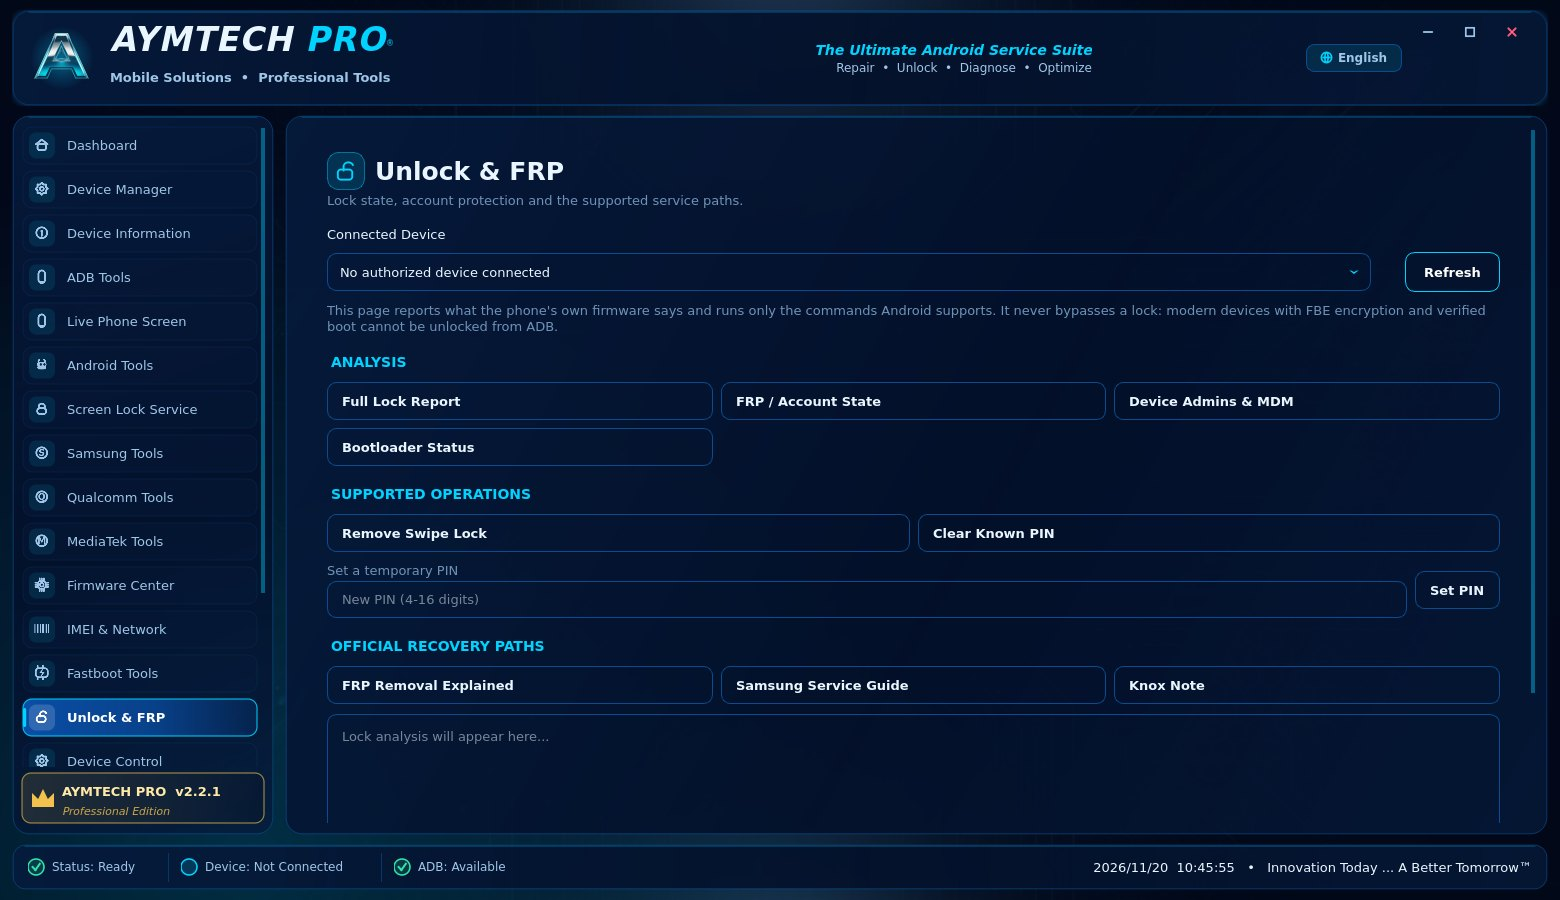
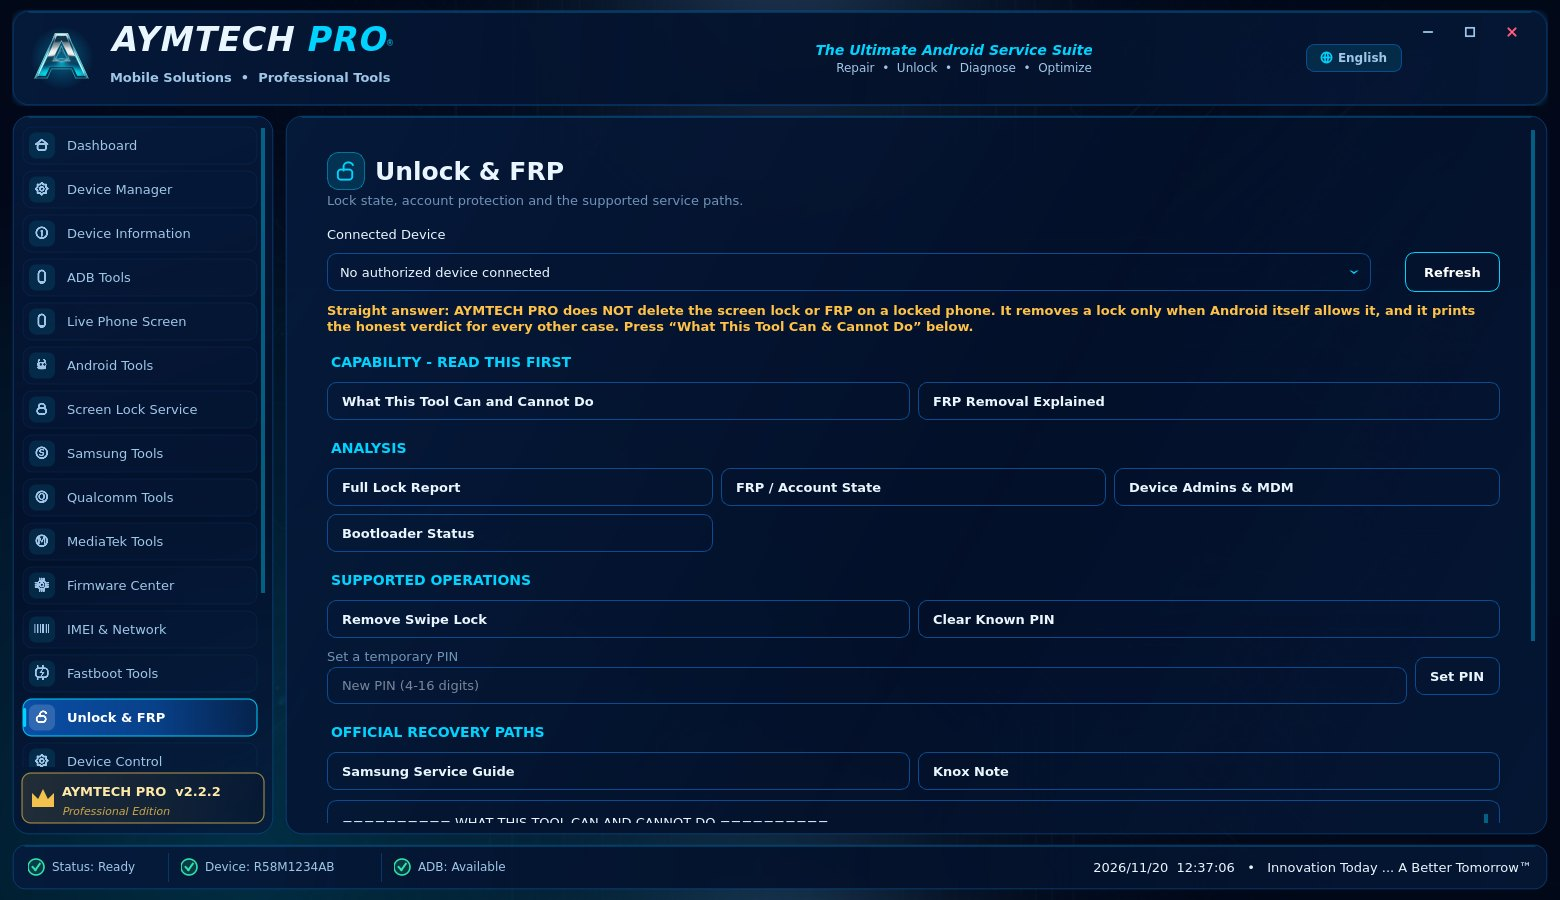
2.2.2: explicit lock / FRP capability matrix on the Unlock and FRP page
Answers the most common support question honestly inside the app.

- tools/unlock_tools.py: CAPABILITIES table (9 rows) and capability_report()
  stating which locks the tool really removes, which depend on the OEM and
  which are impossible over ADB, with the technical reason and the official
  path for each.
- Unlock & FRP page: warning banner up top plus a new first section
  'CAPABILITY - READ THIS FIRST' with the matrix and the FRP explanation.
- ui/theme.py: QLabel[warn] style so the banner is visible in every theme.
- EN/FR/AR strings for the new banner, section and button.
- README / README_AR: capability matrix documented; screenshot refreshed.

diff --git a/tools/unlock_tools.py b/tools/unlock_tools.py
@@ -22,6 +22,117 @@ from datetime import datetime
 from .adb_tools import ADBTools
 
 
+# Plain-language capability matrix, shown at the top of the Unlock & FRP page.
+# Every row answers the question a technician actually asks: "does this remove
+# the lock on the phone in front of me?"  Only three rows are a hard YES.
+CAPABILITIES = [
+    # (operation, verdict, explanation)
+    (
+        "Swipe / no lock screen",
+        "YES",
+        "locksettings set-disabled removes a non-secure swipe lock over ADB.",
+    ),
+    (
+        "PIN / pattern / password - phone already unlocked",
+        "YES",
+        "locksettings clear works while the ADB session is authorised, i.e. "
+        "when the credential is already known.",
+    ),
+    (
+        "Known PIN on a refurbished unit",
+        "YES",
+        "A temporary PIN can be set or removed before the phone is resold.",
+    ),
+    (
+        "PIN / pattern / password - phone parked on the lock screen",
+        "NO",
+        "Android 6+ uses file-based encryption. ADB is not authorised on the "
+        "lock screen and the credential is bound to the hardware keymaster.",
+    ),
+    (
+        "FRP / Google account lock",
+        "NO",
+        "FRP is a server-signed bootloader flag. Only the account "
+        "credentials, the manufacturer's proof-of-purchase service or a "
+        "chip-level procedure on the board can clear it.",
+    ),
+    (
+        "Samsung / Xiaomi / Huawei account lock",
+        "NO",
+        "Vendor account locks are verified online by the bootloader. Nothing "
+        "sent over ADB reaches that check.",
+    ),
+    (
+        "Bootloader unlock",
+        "SOMETIMES",
+        "Only on devices whose OEM unlocking toggle is enabled: fastboot "
+        "flashing unlock. Erases user data. Samsung has no fastboot path.",
+    ),
+    (
+        "Erase the frp partition with fastboot",
+        "SOMETIMES",
+        "Only when the bootloader already accepts write commands, i.e. it is "
+        "already unlocked - and in that state FRP is normally not pending. A "
+        "locked, FRP-pending phone rejects flash/erase/frp and -w.",
+    ),
+    (
+        "Knox / MDM enrolment",
+        "NO",
+        "Enrolment lives in the vendor security partition. Only the enrolling "
+        "organisation or an authorised service centre can release it.",
+    ),
+]
+
+VERDICT_TITLES = {
+    "YES": "REMOVED BY THIS TOOL",
+    "SOMETIMES": "ONLY WHEN THE OEM ALLOWS IT",
+    "NO": "NOT POSSIBLE OVER ADB",
+}
+
+
+def capability_report():
+    """Formatted capability matrix for the Unlock & FRP console."""
+
+    lines = [
+        "========== WHAT THIS TOOL CAN AND CANNOT DO ==========",
+        "",
+        "Direct answer: NO. AYMTECH PRO does not delete the screen lock or",
+        "FRP on a phone that is actually locked. It removes the lock only",
+        "when Android itself allows it, and it states the truth for every",
+        "other case instead of showing a button that cannot work.",
+        "",
+    ]
+    for verdict in ("YES", "SOMETIMES", "NO"):
+        rows = [row for row in CAPABILITIES if row[1] == verdict]
+        if not rows:
+            continue
+        lines.append(VERDICT_TITLES[verdict])
+        for operation, _verdict, explanation in rows:
+            lines.append(f"  [{verdict:9}] {operation}")
+            lines.append(f"             {explanation}")
+        lines.append("")
+
+    lines.extend([
+        "WHY THERE IS NO 'REMOVE FRP' BUTTON",
+        "  A button claiming to do it would either do nothing, or it would",
+        "  run a chip-level exploit that needs the phone opened, test points",
+        "  shorted and a paid unlock server. Those services exist and repair",
+        "  shops use them for an owner who can prove purchase. This tool does",
+        "  not ship one: it breaks on the next security patch, it damages",
+        "  units, and it is illegal in most countries.",
+        "",
+        "WHAT TO DO FOR A LOCKED PHONE",
+        "  1. Ask for the account credentials or the original receipt.",
+        "  2. Google / Samsung / Xiaomi support clears FRP after proof of",
+        "     purchase - free, official and permanent.",
+        "  3. A full signed firmware flash from an authorised service centre",
+        "     repairs corrupted firmware; it does not clear FRP.",
+        "  4. Chip-level service (EDL / JTAG / ISP) only with written",
+        "     authorisation from the owner and the local rules.",
+    ])
+    return "\n".join(lines)
+
+
 class UnlockTools:
 
     # ------------------------------------------------------------------

diff --git a/main.py b/main.py
@@ -41,7 +41,7 @@ from tools.firmware_center import FirmwareCenter
 from tools.ios_tools import IOSTools
 from tools.network_tools import NetworkTools
 from tools.translations import translate_text
-from tools.unlock_tools import UnlockTools
+from tools.unlock_tools import UnlockTools, capability_report
 
 from ui import theme as ui_theme
 from ui import icons as ui_icons
@@ -60,7 +60,7 @@ from ui.widgets import PageSubtitle, PageTitle
 # =========================================================
 
 APP_NAME = "AYMTECH PRO"
-APP_VERSION = "2.2.1"
+APP_VERSION = "2.2.2"
 
 # The application stylesheet is generated per theme by
 # ui.theme.build_stylesheet(); see AymtechPro.apply_styles().
@@ -3594,11 +3594,19 @@ class AymtechPro(QMainWindow):
         tool.with_device_selector("Connected Device")
 
         tool.add_note(
-            "This page reports what the phone's own firmware says and runs only "
-            "the commands Android supports. It never bypasses a lock: modern "
-            "devices with FBE encryption and verified boot cannot be unlocked "
-            "from ADB.",
-            "hint",
+            "Straight answer: AYMTECH PRO does NOT delete the screen lock or "
+            "FRP on a locked phone. It removes a lock only when Android itself "
+            "allows it, and it prints the honest verdict for every other case. "
+            "Press \u201cWhat This Tool Can & Cannot Do\u201d below.",
+            "warn",
+        )
+
+        tool.add_section(
+            "CAPABILITY - READ THIS FIRST",
+            [
+                ("What This Tool Can and Cannot Do", self.unlock_capabilities),
+                ("FRP Removal Explained", self.unlock_frp_explained),
+            ],
         )
 
         tool.add_section(
@@ -3630,7 +3638,6 @@ class AymtechPro(QMainWindow):
         tool.add_section(
             "OFFICIAL RECOVERY PATHS",
             [
-                ("FRP Removal Explained", self.unlock_frp_explained),
                 ("Samsung Service Guide", self.show_samsung_guide),
                 ("Knox Note", self.unlock_knox_note),
             ],
@@ -3803,6 +3810,13 @@ class AymtechPro(QMainWindow):
             lambda: UnlockTools.set_pin(serial, pin),
             lambda result: self.unlock_show(result, "SET PIN"),
         )
+
+    def unlock_capabilities(self):
+
+        text = capability_report()
+        if self.unlock_result_box is not None:
+            self.unlock_result_box.setPlainText(text)
+        self.log("Unlock service: capability matrix shown")
 
     def unlock_frp_explained(self):
 

diff --git a/tools/translations.py b/tools/translations.py
@@ -151,6 +151,9 @@ LANGUAGES = {
         'Appearance': 'Apparence',
         'Theme, background, transparency and animations.': 'Thème, arrière-plan, transparence et animations.',
         'Theme': 'Thème',
+        'CAPABILITY - READ THIS FIRST': 'CAPACITÉS - À LIRE EN PREMIER',
+        'What This Tool Can and Cannot Do': "Ce que l'outil fait et ne fait pas",
+        'Straight answer: AYMTECH PRO does NOT delete the screen lock or FRP on a locked phone. It removes a lock only when Android itself allows it, and it prints the honest verdict for every other case. Press \u201cWhat This Tool Can & Cannot Do\u201d below.': "Réponse directe : AYMTECH PRO ne supprime PAS le verrouillage de l'écran ni le FRP sur un téléphone verrouillé. Il ne retire un verrou que lorsque Android l'autorise, et affiche la réponse honnête dans tous les autres cas. Appuyez sur « Ce que l'outil fait et ne fait pas » ci-dessous.",
         'Panel transparency': 'Transparence des panneaux',
         'Interface animations': "Animations de l'interface",
         'Dark Blue Neon': 'Bleu nuit néon',
@@ -506,6 +509,9 @@ LANGUAGES = {
         'Appearance': 'المظهر',
         'Theme, background, transparency and animations.': 'الثيم والخلفية والشفافية والحركات.',
         'Theme': 'السمة',
+        'CAPABILITY - READ THIS FIRST': 'القدرات - اقرأ هذا أولًا',
+        'What This Tool Can and Cannot Do': 'ما تستطيعه الأداة وما لا تستطيعه',
+        'Straight answer: AYMTECH PRO does NOT delete the screen lock or FRP on a locked phone. It removes a lock only when Android itself allows it, and it prints the honest verdict for every other case. Press \u201cWhat This Tool Can & Cannot Do\u201d below.': 'جواب مباشر: AYMTECH PRO لا يحذف نمط القفل ولا FRP على هاتف مقفل فعلًا. يزيل القفل فقط عندما يسمح Android بذلك، ويعرض الحكم الصادق في كل حالة أخرى. اضغط «ما تستطيعه الأداة وما لا تستطيعه» أدناه.',
         'Panel transparency': 'شفافية اللوحات',
         'Interface animations': 'حركات الواجهة',
         'Dark Blue Neon': 'أزرق داكن نيون',

diff --git a/ui/shell.py b/ui/shell.py
@@ -365,7 +365,7 @@ class _SidebarFooter(QWidget):
         painter.drawText(
             QRectF(rect.left() + 40, rect.top() + 8, rect.width() - 48, 20),
             Qt.AlignVCenter | Qt.AlignLeft,
-            "AYMTECH PRO  v2.2.1",
+            "AYMTECH PRO  v2.2.2",
         )
         font.setPointSizeF(8.0)
         font.setBold(False)

diff --git a/ui/theme.py b/ui/theme.py
@@ -600,4 +600,9 @@ def build_stylesheet(p: Palette, opacity: float = 0.9, arrow: str = "") -> str:
     QLabel[hint="true"] {{
         color: {muted};
     }}
+
+    QLabel[warn="true"] {{
+        color: {p.warn};
+        font-weight: 600;
+    }}
     """

diff --git a/README_AR.md b/README_AR.md
@@ -1,4 +1,4 @@
-# AYMTECH PRO — النسخة 2.2.1
+# AYMTECH PRO — النسخة 2.2.2
 
 برنامج Windows لصيانة الهواتف يعتمد على واجهة رسومية حديثة (PySide6) بأسلوب
 "Holographic Tech": نوافذ زجاجية مضيئة، أربع سمات ألوان، خلفيات تقنية، وواجهة
@@ -56,6 +56,12 @@
 البرنامج بالكامل فورًا. تُحفظ السمة واللغة والخلفية والشفافية والحركات في
 `QSettings` وتُستعاد عند التشغيل التالي.
 
+## الجديد في 2.2.2 — جدول قدرات صريح للقفل و FRP
+- تبدأ صفحة **فتح الأقفال و FRP** بجواب واضح، وزر *ما تستطيعه الأداة وما لا
+  تستطيعه* يطبع سطرًا بسطر: أي الأقفال تزيلها الأداة فعلاً، وأيها يعتمد على
+  الشركة المصنّعة، وأيها مستحيل عبر ADB — مع السبب التقني والمسار الرسمي لكل
+  حالة. لا يوجد زر «إزالة FRP» يوهم المستخدم بأنه يعمل.
+
 ## الجديد في 2.2.1 — مساحة عمل أنظف
 - **إخفاء لوحة السمات الجانبية** لتأخذ صفحات الأدوات عرض النافذة كاملًا. انتقلت
   خيارات السمة والخلفية والشفافية والحركات إلى **الإعدادات ← المظهر**، وأسماء
@@ -79,8 +85,10 @@
 - **أدوات Fastboot:** كشف الأجهزة، قراءة كل المتغيرات، حالة قفل البوتلودر، أوضاع
   إعادة التشغيل، وتفليش/مسح/تهيئة الأقسام مع تأكيد كتابي قبل أي عملية خطرة.
 - **فتح الأقفال و FRP:** تقرير صادق لحالة القفل (البوتلودر، Verified Boot،
-  Knox، FRP، الحسابات المسجّلة، مديرو الجهاز و MDM)، والعمليتان الوحيدتان التي
-  يدعمهما Android فعليًا، وطرق الإزالة الرسمية.
+  Knox، FRP، الحسابات المسجّلة، مديرو الجهاز و MDM)، والعمليات التي يدعمها
+  Android فعليًا، وطرق الإزالة الرسمية. تبدأ الصفحة بـ**جدول قدرات** واضح: أي
+  قفل تُزيله الأداة فعلًا (قفل السحب، ورمز PIN تعرفه مسبقًا) وأي قفل لا تستطيعه
+  (شاشة مقفلة، FRP، أقفال حسابات الشركات، Knox/MDM) مع سبب كل حالة.
 - **التحكم بالجهاز:** أزرار الهاتف، إدخال نص، Wi-Fi/البيانات/وضع الطيران،
   إبقاء الشاشة يقظة، سرعة الحركات، فتح الإعدادات، والاقتران اللاسلكي.
 - **التطبيقات والملفات:** قوائم التطبيقات، معلومات الحزمة، تثبيت/حذف/تعطيل/مسح

diff --git a/README.md b/README.md
@@ -1,4 +1,4 @@
-# AYMTECH PRO 2.2.1
+# AYMTECH PRO 2.2.2
 
 A Windows desktop toolkit for mobile repair technicians, built with PySide6.
 Version 2.0 introduces a completely rebuilt interface in a "holographic tech"
@@ -63,6 +63,13 @@ is generated from a single `Palette` object in `ui/theme.py`, so switching a
 theme recolours the whole application instantly. Theme, language, background,
 transparency and animation preferences persist through `QSettings`.
 
+## New in 2.2.2 – explicit lock/FRP capability matrix
+- The **Unlock & FRP** page now starts with a red-flagged answer and a
+  *What This Tool Can and Cannot Do* button. It prints, line by line, which
+  locks the app really removes, which depend on the manufacturer, and which
+  are impossible over ADB — with the technical reason and the official path
+  for each one. No "Remove FRP" button that pretends to work.
+
 ## New in 2.2.1 – cleaner workspace
 - **The Themes dock is hidden** so the tool pages get the full window width.
   Theme, background, transparency and animation controls now live in
@@ -88,8 +95,11 @@ transparency and animation preferences persist through `QSettings`.
   state, restart modes, and partition **flash / erase / format** behind a
   typed confirmation.
 - **Unlock & FRP** – an honest lock report (bootloader, verified boot, Knox
-  warranty bit, FRP, signed-in accounts, device admins/MDM), the only two lock
+  warranty bit, FRP, signed-in accounts, device admins/MDM), the only lock
   operations Android actually supports, and the official removal paths.
+  The page opens with a **capability matrix**: which locks this tool really
+  removes (swipe lock, a PIN you already know) and which it cannot (a locked
+  screen, FRP, vendor account locks, Knox/MDM), plus the reason for each.
 - **Device Control** – key events, text input, Wi-Fi / data / airplane toggles,
   stay-awake, animation scale, settings shortcuts and wireless ADB pairing.
 - **Packages & Files** – user/system package lists, app info, install,
